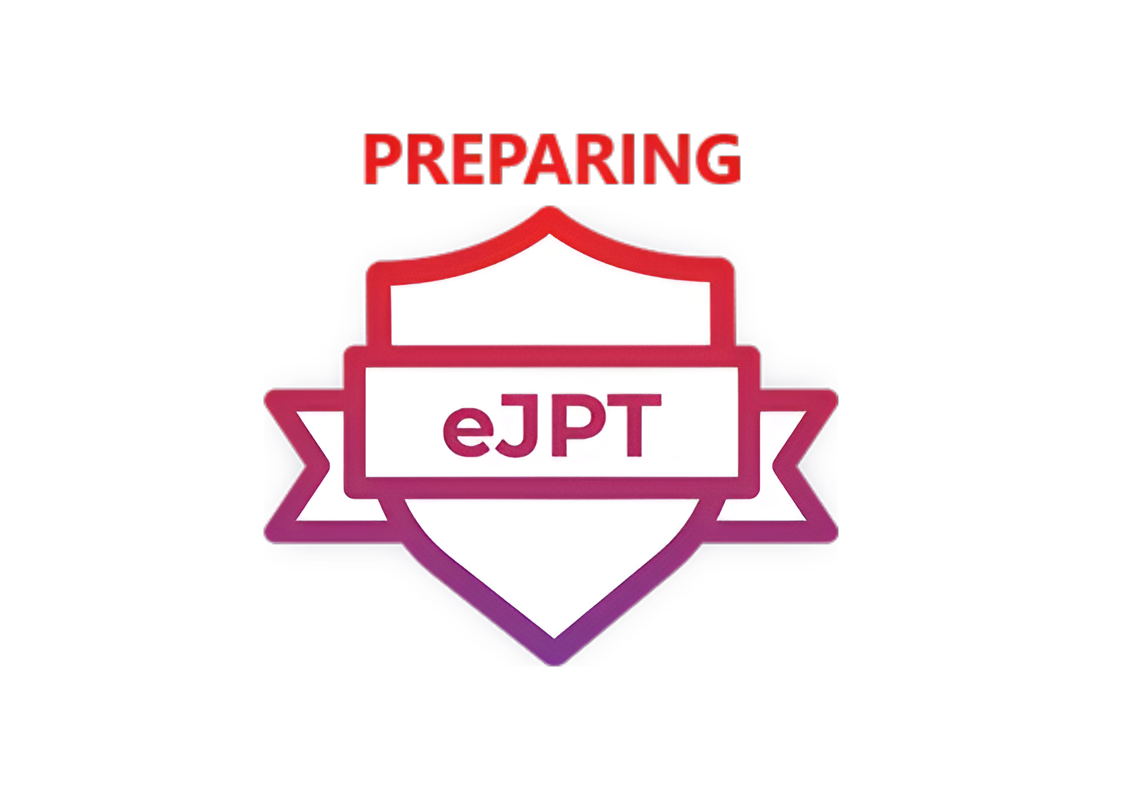
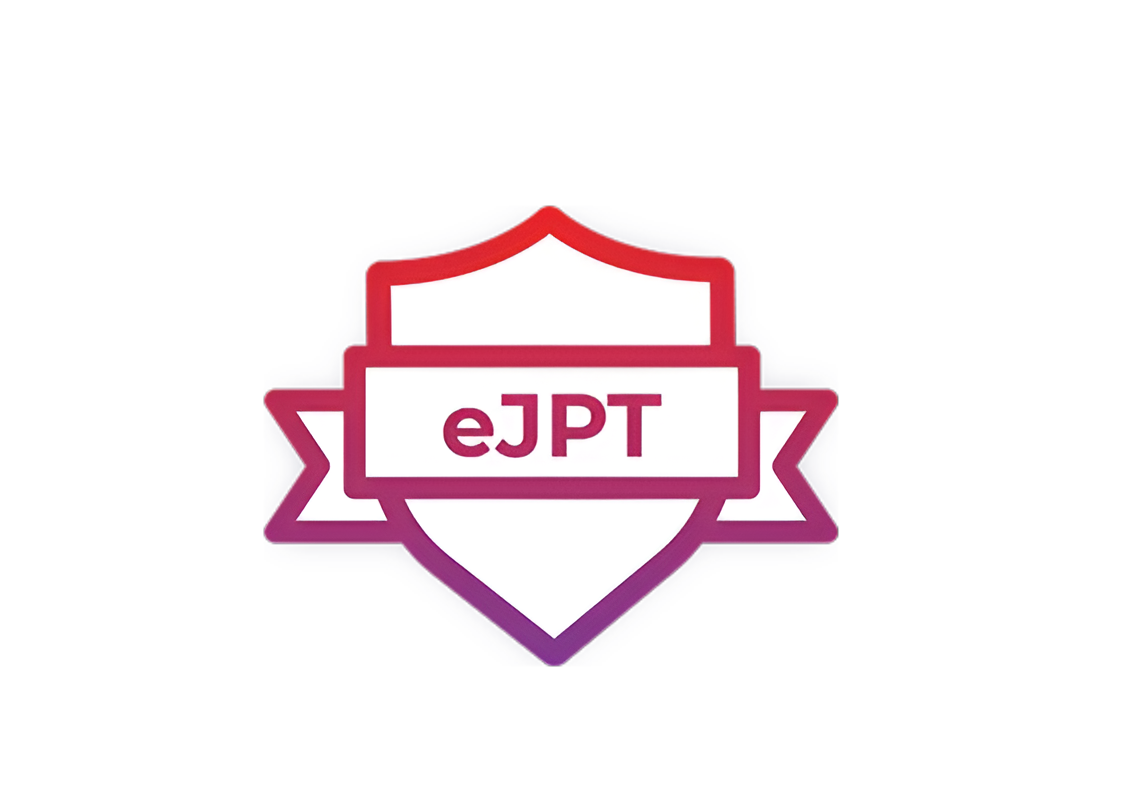
eJPTv2

Changed region(s): [[0.3078, 0.1559, 0.6772, 0.2494]]

diff --git a/_tabs/whoami.md b/_tabs/whoami.md
@@ -6,8 +6,12 @@ order: 4
 
 Bienvenidos a mi Blog, 
 
-mi nombre es **Rubén**, soy un apasionado de la **ciberseguridad ofensiva**, en este blog principalmente subiré Writeups de las máquinas que resuelva de plataformas como **Hack The Box**, **TryHackMe**, **VulnHub**, **DockerLabs**, etc.
+Mi nombre es **Rubén**, soy un apasionado de la **ciberseguridad ofensiva**, en este blog principalmente subiré Writeups de las máquinas que resuelva de plataformas como **Hack The Box**, **TryHackMe**, **VulnHub**, **DockerLabs**, etc.
 
 Diariamente realizo CTFs, que me ayudan a aprender y entender conceptos complejos de la **ciberseguridad**.
 
-Tengo el grado de **Sistemas Microinformáticos y Redes**, y el de **Administración de Sistemas Informáticos en Red**, actualmente estoy cursando un **Máster** de **Hacking Ético**, mi idea principal es sacarme en las próximas semanas la certificación **EJPT** de INE Security.
+Tengo el grado de **Sistemas Microinformáticos y Redes**, el de **Administración de Sistemas Informáticos en Red** y actualmente estoy cursando un **Máster** de **Hacking Ético**. 
+
+- **eJPTv2** de **INE Security**.
+
+![picture](/assets/images/ejptv2/certificacion.png)

diff --git a/_posts/2024-09-21-PickleRick.md b/_posts/2024-09-21-PickleRick.md
@@ -3,7 +3,7 @@ title: Pickle Rick
 date: 2024-09-21
 categories: [WRITEUPS, PREPARING EJPTv2]
 tags: []  # TAG names should always be lowercase
-image: /assets/images/ejptv2/ejptV2.png
+image: /assets/images/ejptv2/prep-ejptV2.png
 ---
 
 En la máquina **Pickle Rick** de **TryHackMe**, encuentro credenciales realizando **Fuzzing** web, y obtengo acceso en un panel de comandos, con la capacidad de ejecutar comandos en la máquina. Entraremos en la máquina y escalaré privilegios por los permisos de **Sudo** del usuario **www-data**.

diff --git a/_posts/2024-09-19-Blue.md b/_posts/2024-09-19-Blue.md
@@ -3,7 +3,7 @@ title: Blue
 date: 2024-09-19
 categories: [WRITEUPS, PREPARING EJPTv2]
 tags: []  # TAG names should always be lowercase
-image: /assets/images/ejptv2/ejptV2.png
+image: /assets/images/ejptv2/prep-ejptV2.png
 ---
 
 En la máquina **Blue** de **TryHackMe**, veremos como se ejecuta una vulnerabilidad **EternalBlue**, que podría caer en el examen de la **EJPTv2**.

diff --git a/_posts/2024-09-24-Cyborg.md b/_posts/2024-09-24-Cyborg.md
@@ -3,7 +3,7 @@ title: Cyborg
 date: 2024-09-24
 categories: [WRITEUPS, PREPARING EJPTv2]
 tags: [BorgBackup]  # TAG names should always be lowercase
-image: /assets/images/ejptv2/ejptV2.png
+image: /assets/images/ejptv2/prep-ejptV2.png
 ---
 
 ![picture](/assets/images/ejptv2/cyborg1.png)

diff --git a/_posts/2024-09-30-Gallery.md b/_posts/2024-09-30-Gallery.md
@@ -3,7 +3,7 @@ title: Gallery
 date: 2024-09-30
 categories: [WRITEUPS, PREPARING EJPTv2]
 tags: []  # TAG names should always be lowercase
-image: /assets/images/ejptv2/ejptV2.png
+image: /assets/images/ejptv2/prep-ejptV2.png
 ---
 
 ![picture](/assets/images/ejptv2/gal1.png)

diff --git a/_posts/2024-10-01-Wgel.md b/_posts/2024-10-01-Wgel.md
@@ -3,7 +3,7 @@ title: Wgel
 date: 2024-10-01
 categories: [WRITEUPS, PREPARING EJPTv2]
 tags: []  # TAG names should always be lowercase
-image: /assets/images/ejptv2/ejptV2.png
+image: /assets/images/ejptv2/prep-ejptV2.png
 ---
 
 ![picture](/assets/images/ejptv2/wgel1.png)

diff --git a/_posts/2024-09-22-LazyAdmin.md b/_posts/2024-09-22-LazyAdmin.md
@@ -3,7 +3,7 @@ title: LazyAdmin
 date: 2024-09-22
 categories: [WRITEUPS, PREPARING EJPTv2]
 tags: []  # TAG names should always be lowercase
-image: /assets/images/ejptv2/ejptV2.png
+image: /assets/images/ejptv2/prep-ejptV2.png
 ---
 
 ---

diff --git a/_posts/2024-09-23-ColddBox.md b/_posts/2024-09-23-ColddBox.md
@@ -3,7 +3,7 @@ title: ColddBox
 date: 2024-09-23
 categories: [WRITEUPS, PREPARING EJPTv2]
 tags: []  # TAG names should always be lowercase
-image: /assets/images/ejptv2/ejptV2.png
+image: /assets/images/ejptv2/prep-ejptV2.png
 ---
 
 ---

diff --git a/_posts/2024-09-22-Ignite.md b/_posts/2024-09-22-Ignite.md
@@ -3,7 +3,7 @@ title: Ignite
 date: 2024-09-22
 categories: [WRITEUPS, PREPARING EJPTv2]
 tags: []  # TAG names should always be lowercase
-image: /assets/images/ejptv2/ejptV2.png
+image: /assets/images/ejptv2/prep-ejptV2.png
 ---
 
 ---
